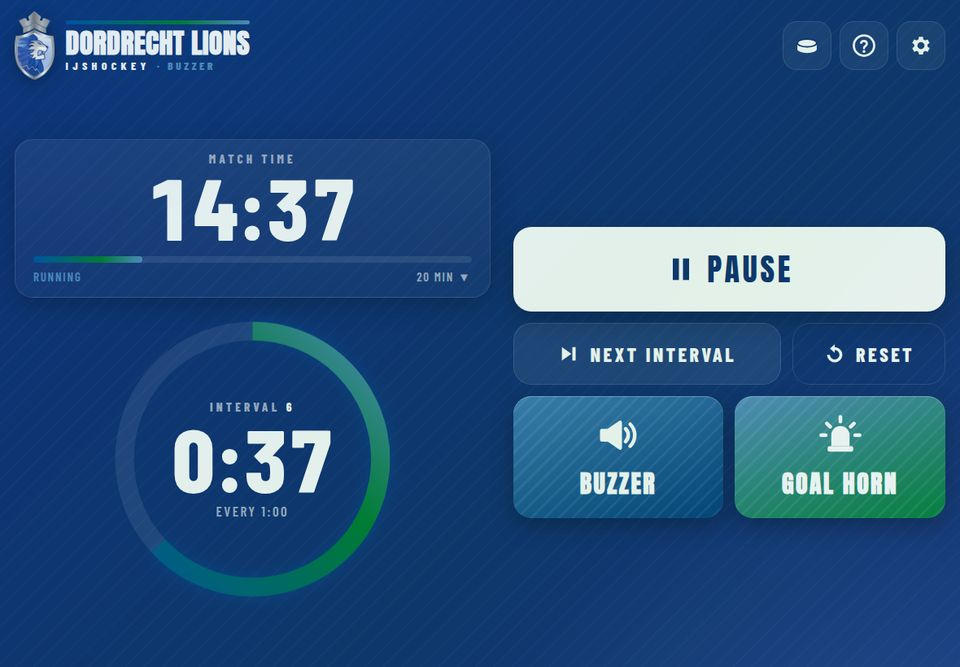
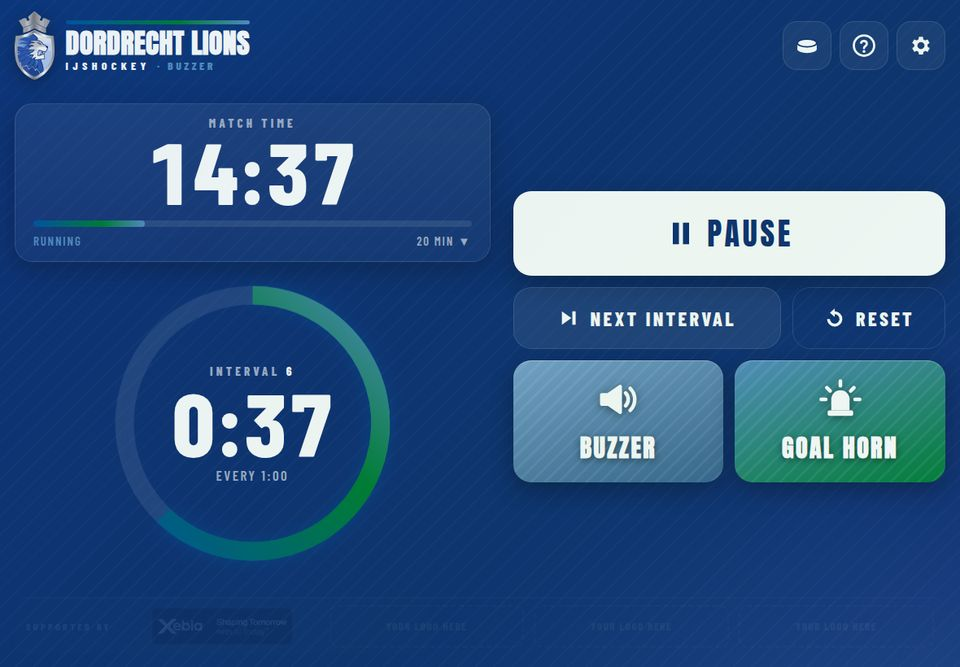
Add a subtle sponsor strip, sponsor popups and Xebia as app sponsor
- Low 'rink boards' strip at the bottom with up to 4 toned-down logos;
  it fades out while the clock runs and is part of the page flow, so it
  never covers the controls. Empty slots show 'Your logo here'.
- Tap a logo for a popup with logo, name, text and website; tap a
  placeholder for an invitation to sponsor with the contact email
- App sponsors in config.json (also on the About page); team sponsors
  per team in profiles.json, only shown while that team is selected
- Xebia as the app sponsor; sponsoring contact moved from the About
  text into the invitation popup
- Help text and screenshots updated

Claude-Session: https://claude.ai/code/session_012dyHpe2QnDGGkjJJWPK8vo

diff --git a/sponsors.js b/sponsors.js
@@ -1,0 +1,106 @@
+// Sponsors: a subtle strip of logo "boards" at the bottom (faded while the clock runs),
+// a popup with the sponsor's details, and the app sponsors on the About page.
+//
+// App sponsors (every team) live in config.json under "sponsors".
+// Team sponsors live in profiles.json under that team's "sponsors"; they only show while that
+// team is selected, and never on the About page.
+// A sponsor is { "name", "logo", "url", "text" }. Empty slots invite new sponsors.
+(() => {
+  'use strict';
+  const $ = id => document.getElementById(id);
+  const SLOTS = 4;
+  let cfg = {};
+  let team = window.__lbTeam || { name: '', sponsors: [] };
+
+  const el = (tag, cls, text) => { const e = document.createElement(tag); if (cls) e.className = cls; if (text) e.textContent = text; return e; };
+
+  function sponsorTile(s, kind) {
+    const b = el('button', 'board-slot');
+    b.type = 'button';
+    b.setAttribute('aria-label', s.name);
+    if (s.logo) { const img = el('img'); img.src = s.logo; img.alt = s.name; b.appendChild(img); }
+    else b.textContent = s.name;
+    b.addEventListener('click', () => showSponsor(s, kind));
+    return b;
+  }
+  function placeholderTile(cls) {
+    const b = el('button', cls, 'Your logo here');
+    b.type = 'button';
+    b.addEventListener('click', showInvite);
+    return b;
+  }
+
+  function render() {
+    const slots = $('boardSlots');
+    slots.textContent = '';
+    const list = (team.sponsors || []).map(s => [s, 'team']).concat((cfg.sponsors || []).map(s => [s, 'app'])).slice(0, SLOTS);
+    list.forEach(([s, kind]) => slots.appendChild(sponsorTile(s, kind)));
+    for (let i = list.length; i < SLOTS; i++) slots.appendChild(placeholderTile('board-slot empty'));
+
+    // About page: app sponsors only.
+    const grid = $('aboutSponsors');
+    grid.textContent = '';
+    const app = cfg.sponsors || [];
+    app.forEach(s => { const t = sponsorTile(s, 'app'); t.className = 'about-tile'; grid.appendChild(t); });
+    for (let i = app.length; i < SLOTS; i++) grid.appendChild(placeholderTile('about-tile empty'));
+  }
+
+  function open(build) {
+    const card = $('sponsorCard');
+    card.textContent = '';
+    build(card);
+    const close = el('button', 'btn small ghost', 'CLOSE');
+    close.type = 'button';
+    close.addEventListener('click', () => $('sponsorModal').close());
+    card.querySelector('.sponsor-actions').appendChild(close);
+    if ($('about').open) $('about').close();
+    $('sponsorModal').showModal();
+  }
+
+  function showSponsor(s, kind) {
+    open(card => {
+      card.appendChild(el('div', 'sponsor-tag', kind === 'team' ? 'Team sponsor · ' + team.name : 'App sponsor'));
+      if (s.logo) { const img = el('img', 'sponsor-logo'); img.src = s.logo; img.alt = s.name; card.appendChild(img); }
+      card.appendChild(el('h3', '', s.name));
+      if (s.text) card.appendChild(el('p', '', s.text));
+      const actions = el('div', 'sponsor-actions');
+      if (s.url) {
+        const a = el('a', 'btn small start', 'VISIT WEBSITE');
+        a.href = /^https?:\/\//.test(s.url) ? s.url : 'https://' + s.url;
+        a.target = '_blank'; a.rel = 'noopener';
+        actions.appendChild(a);
+      }
+      card.appendChild(actions);
+    });
+  }
+
+  function showInvite() {
+    open(card => {
+      card.appendChild(el('div', 'sponsor-tag', 'Sponsoring'));
+      card.appendChild(el('div', 'sponsor-dash', 'YOUR LOGO HERE'));
+      card.appendChild(el('h3', '', 'Sponsor the buzzer'));
+      card.appendChild(el('p', '', 'This buzzer is made by volunteers of Dordrecht Lions. Sponsor one team, or the whole app, and your logo appears here.'));
+      const actions = el('div', 'sponsor-actions');
+      if (cfg.contactEmail) {
+        const p = el('p', '', 'Mail us at ');
+        const a = el('a', '', cfg.contactEmail);
+        a.href = 'mailto:' + cfg.contactEmail + '?subject=' + encodeURIComponent('Sponsoring Lions Buzzer');
+        p.appendChild(a); p.append('.');
+        card.appendChild(p);
+        const btn = el('a', 'btn small start', 'MAIL US');
+        btn.href = a.href;
+        actions.appendChild(btn);
+      }
+      card.appendChild(actions);
+    });
+  }
+
+  $('sponsorModal').addEventListener('click', e => { if (e.target === $('sponsorModal')) $('sponsorModal').close(); });
+
+  window.addEventListener('lb:profile', e => { team = e.detail || team; render(); });
+  fetch('config.json', { cache: 'no-cache' })
+    .then(r => (r.ok ? r.json() : {}))
+    .catch(() => ({}))
+    .then(c => { cfg = c || {}; render(); });
+  render();
+})();

diff --git a/style.css b/style.css
@@ -150,7 +150,7 @@ svg { display: block; }
 
 /* Interval ring */
 .ring-wrap {
-  --ring: min(78vw, 34vh, 420px);
+  --ring: min(78vw, 31vh, 420px);
   position: relative;
   width: var(--ring);
   height: var(--ring);
@@ -602,3 +602,57 @@ input[type=range]::-moz-range-thumb { width: 28px; height: 28px; border-radius: 
   text-shadow: 0 2px 8px rgba(0, 0, 0, .5);
 }
 .pad svg { filter: drop-shadow(0 2px 6px rgba(0, 0, 0, .45)); }
+
+/* ---------- Sponsors: rink-board strip ---------- */
+/* Last row of the page, so it never covers the controls. */
+.boards {
+  width: 100%; max-width: 1280px; margin: 4px auto 0;
+  display: flex; align-items: center; gap: 16px;
+  padding: 8px 14px;
+  border-radius: 16px;
+  background: rgba(255, 255, 255, .045);
+  border-top: 2px solid rgba(255, 255, 255, .14);
+  transition: opacity .6s ease;
+}
+body.running .boards { opacity: .1; }
+.boards-label { flex: none; font-weight: 800; font-size: 12px; letter-spacing: .28em; text-transform: uppercase; color: var(--muted); opacity: .85; }
+.boards-slots { flex: 1; display: grid; grid-template-columns: repeat(4, 1fr); gap: 12px; }
+.board-slot {
+  height: 52px; padding: 0; border: 0; border-radius: 10px; background: none;
+  display: grid; place-items: center; overflow: hidden; cursor: pointer;
+  color: var(--muted); font-weight: 800; font-size: 13px; letter-spacing: .12em; text-transform: uppercase;
+}
+.board-slot img { max-height: 44px; max-width: 100%; width: auto; opacity: .6; filter: grayscale(1) brightness(1.2); transition: opacity .3s, filter .3s; }
+.board-slot:hover img, .board-slot:focus-visible img { opacity: 1; filter: none; }
+.board-slot.empty { border: 2px dashed rgba(255, 255, 255, .2); color: rgba(255, 255, 255, .42); }
+@media (max-width: 560px) {
+  .boards { gap: 8px; padding: 6px 8px; }
+  .boards-label { display: none; }
+  .boards-slots { gap: 6px; }
+  .board-slot { height: 42px; font-size: 10px; letter-spacing: .06em; }
+  .board-slot img { max-height: 34px; }
+}
+
+/* ---------- Sponsor popup ---------- */
+.sponsor-sheet { width: min(540px, calc(100vw - 24px)); }
+.sponsor-card { align-items: center; text-align: center; gap: 14px; }
+.sponsor-tag { font-weight: 800; font-size: 13px; letter-spacing: .28em; text-transform: uppercase; color: var(--green); }
+.sponsor-logo { max-height: 110px; max-width: 100%; width: auto; border-radius: 14px; }
+.sponsor-card h3 { margin: 0; font-family: var(--display); font-weight: 400; font-size: 32px; letter-spacing: .03em; }
+.sponsor-card p { margin: 0; font-size: 19px; line-height: 1.45; }
+.sponsor-card p a { color: var(--green); }
+.sponsor-dash { width: 220px; height: 96px; border: 3px dashed rgba(255, 255, 255, .35); border-radius: 16px; display: grid; place-items: center; font-weight: 800; letter-spacing: .14em; color: rgba(255, 255, 255, .6); }
+.sponsor-actions { display: flex; gap: 12px; flex-wrap: wrap; justify-content: center; margin-top: 6px; }
+a.btn { text-decoration: none; color: var(--white); }
+
+/* ---------- About: app sponsors ---------- */
+.about-sponsors { width: 100%; display: grid; gap: 10px; }
+.about-sponsors h3 { margin: 0; }
+.about-grid { display: grid; grid-template-columns: repeat(4, 1fr); gap: 10px; }
+.about-tile {
+  height: 70px; padding: 6px; border: 0; border-radius: 12px; background: rgba(255, 255, 255, .05);
+  display: grid; place-items: center; cursor: pointer;
+}
+.about-tile img { max-height: 56px; max-width: 100%; border-radius: 8px; }
+.about-tile.empty { background: none; border: 2px dashed rgba(255, 255, 255, .25); color: rgba(255, 255, 255, .5); font-weight: 800; font-size: 13px; letter-spacing: .1em; text-transform: uppercase; }
+@media (max-width: 560px) { .about-grid { grid-template-columns: repeat(2, 1fr); } }

diff --git a/index.html b/index.html
@@ -133,9 +133,20 @@
       </div>
     </section>
   </main>
+
+  <!-- Sponsors: low "rink boards" strip, faded out while the clock runs. Filled by sponsors.js. -->
+  <aside class="boards" id="boards" aria-label="Sponsors">
+    <span class="boards-label">Supported by</span>
+    <div class="boards-slots" id="boardSlots"></div>
+  </aside>
 </div>
 
+
 <div class="flash" id="flash"></div>
+
+<dialog class="sheet sponsor-sheet" id="sponsorModal">
+  <div class="sheet-inner sponsor-card" id="sponsorCard"></div>
+</dialog>
 
 <button type="button" class="sound-banner" id="soundBanner" hidden>
   <svg><use href="#i-horn"/></svg><span>The phone switched the sound off. Tap here to turn it back on.</span>
@@ -342,6 +353,7 @@
         <li><b>NEXT INTERVAL</b> moves the clock to the next whole interval, to get it back in line with the rink clock: with a 1-minute interval, 14:32 becomes 14:00 and 9:01 becomes 9:00. It does not sound the buzzer.</li>
         <li><b>RESET</b> sets the match back to the start (it asks first).</li>
         <li><b>BUZZER</b> and <b>GOAL HORN</b> play the sound right away. Tap again to stop it.</li>
+        <li>The strip at the bottom shows our sponsors. Tap a logo for more about the sponsor. It fades out while the clock runs.</li>
       </ul>
     </section>
 
@@ -412,13 +424,17 @@
     <a class="btn start coffee-btn" id="coffeeLink" href="#" target="_blank" rel="noopener" hidden>
       <svg><use href="#i-puck"/></svg><span>BUY ME A PUCK</span>
     </a>
-    <p>Would you like to sponsor the clock? <span id="sponsorContact">Get in touch with us.</span></p>
+    <section class="about-sponsors">
+      <h3>Our sponsors</h3>
+      <div class="about-grid" id="aboutSponsors"></div>
+    </section>
     <p class="about-maker" id="aboutMaker" hidden></p>
   </div>
 </dialog>
 
 <script src="profiles.js"></script>
 <script src="pages.js"></script>
+<script src="sponsors.js"></script>
 <script src="app.js"></script>
 </body>
 </html>

diff --git a/profiles.js b/profiles.js
@@ -64,7 +64,11 @@
       title: String(p.title != null ? p.title : p.name || '').slice(0, 30),
       subtitle: String(p.subtitle || '').slice(0, 30),
       logo: typeof p.logo === 'string' ? p.logo : '',
-      colors
+      colors,
+      // Team sponsors (optional): [{ name, logo, url, text }]
+      sponsors: Array.isArray(p.sponsors) ? p.sponsors.filter(x => x && x.name).map(x => ({
+        name: String(x.name).slice(0, 60), logo: String(x.logo || ''), url: String(x.url || ''), text: String(x.text || '').slice(0, 400)
+      })) : []
     };
   }
 
@@ -129,6 +133,9 @@
     document.querySelectorAll('.emblem-initials').forEach(t => { t.textContent = initials(p); });
     showLogo($('logoImg'), $('logoFallback'), p.logo);
     showLogo($('ftLogo'), $('ftFallback'), p.logo);
+    // Let the sponsor strip know which team is shown (team sponsors only count for built-in teams).
+    window.__lbTeam = { name: p.name, sponsors: isBuiltin(p.id) ? (p.sponsors || []) : [] };
+    window.dispatchEvent(new CustomEvent('lb:profile', { detail: window.__lbTeam }));
     clearTimeout(iconTimer);
     iconTimer = setTimeout(() => setAppIcon(p), 300);
   }
@@ -298,7 +305,7 @@
   // Starts as a copy of the selected profile.
   function createProfile() {
     const base = active();
-    const p = clean(Object.assign({}, base, { id: null, name: base.name + ' (copy)' }));
+    const p = clean(Object.assign({}, base, { id: null, name: base.name + ' (copy)', sponsors: [] }));
     local.added.push(p);
     select(p.id);
     $('pfName').focus();

diff --git a/sw.js b/sw.js
@@ -1,7 +1,7 @@
 // Offline cache so the buzzer also works at a rink without Wi-Fi.
-const CACHE = 'yl-buzzer-v15';
+const CACHE = 'yl-buzzer-v16';
 const FILES = [
-  './', 'index.html', 'style.css', 'app.js', 'profiles.js', 'pages.js', 'profiles.json', 'config.json', 'manifest.webmanifest',
+  './', 'index.html', 'style.css', 'app.js', 'profiles.js', 'pages.js', 'sponsors.js', 'sponsors/xebia.png', 'profiles.json', 'config.json', 'manifest.webmanifest',
   'logos/yetilions.png', 'logos/dordrecht-lions.png', 'logos/neutral.svg',
   'icons/icon-192.png', 'icons/icon-512.png', 'icons/apple-touch-icon.png',
   'fonts/anton-latin-400-normal.woff2',

diff --git a/pages.js b/pages.js
@@ -24,14 +24,6 @@
         $('coffeeLink').href = cfg.coffeeUrl;
         $('coffeeLink').hidden = false;
       }
-      if (cfg.contactEmail) {
-        const a = document.createElement('a');
-        a.href = 'mailto:' + cfg.contactEmail + '?subject=' + encodeURIComponent('Sponsoring Lions Buzzer');
-        a.textContent = cfg.contactEmail;
-        $('sponsorContact').textContent = 'Mail us at ';
-        $('sponsorContact').appendChild(a);
-        $('sponsorContact').append('.');
-      }
       if (cfg.maker) {
         $('aboutMaker').textContent = 'Made by ' + cfg.maker + '.';
         $('aboutMaker').hidden = false;

diff --git a/app.js b/app.js
@@ -463,6 +463,7 @@
     ring.style.strokeDashoffset = (C * (1 - frac)).toFixed(1);
     $('ringWrap').classList.toggle('warn', st.running && iLeft <= 5000 && iLeft > 0);
     document.body.classList.toggle('paused', !st.running && e > 0 && !st.ended);
+    document.body.classList.toggle('running', st.running);
 
     const sb = $('startBtn');
     const label = st.running ? 'PAUSE' : e > 0 && !st.ended ? 'RESUME' : 'START';

diff --git a/README.md b/README.md
@@ -40,9 +40,17 @@ Open *Settings → Team* and pick a team from the dropdown, or tap **+ New profi
 - A link preview (WhatsApp, etc.) can't know which team you picked, so the main link shows the default team (Dordrecht Lions). Each built-in team has its own share link, `team/<id>/` (for example `…/LionsBuzzer/team/tilburg-trappers/`), with that team's logo in the preview; opening it starts the app with that team. *Settings → Team → Share link for this team* shares it.
 - The icons in `icons/teams/` and the pages in `team/` are generated from `profiles.json` by `tools/build-assets.cjs` (needs Node and Playwright). Run it after changing `profiles.json` or a logo. If the site moves to a custom domain, change `BASE_URL` in that script (and the `og:` tags in `index.html`) and run it again.
 
+### Sponsors
+
+- A low strip at the bottom of the screen shows up to 4 sponsor logos, toned down, styled like rink boards. It fades out while the clock runs, so it never competes with the time. Empty slots show a dashed "Your logo here".
+- Tapping a logo opens a popup with the sponsor's logo, name, text and website. Tapping "Your logo here" opens an invitation to sponsor, with the contact email from `config.json`.
+- **App sponsors** (shown for every team) are listed in `config.json` under `"sponsors"`. They also appear on the About page.
+- **Team sponsors** are listed in `profiles.json` under that team's `"sponsors"`. They only show in the strip while that team is selected, before the app sponsors, and never on the About page.
+- A sponsor looks like `{ "name": "Xebia", "logo": "sponsors/xebia.png", "url": "https://www.xebia.com", "text": "…" }`. Put sponsor logos in `sponsors/`.
+
 ### Help and About
 
-The **?** icon opens a help page with screenshots (`help/`). The **puck** icon opens the About page: who made the app, a **Buy me a puck** donation button (Ko-fi) and a sponsoring contact. The donation link, contact email and maker name are set in `config.json`; empty values are hidden.
+The **?** icon opens a help page with screenshots (`help/`). The **puck** icon opens the About page: who made the app, a **Buy me a puck** donation button (Ko-fi) and the app sponsors. The donation link, contact email and maker name are set in `config.json`; empty values are hidden.
 
 ## Deploying to GitHub Pages
 
